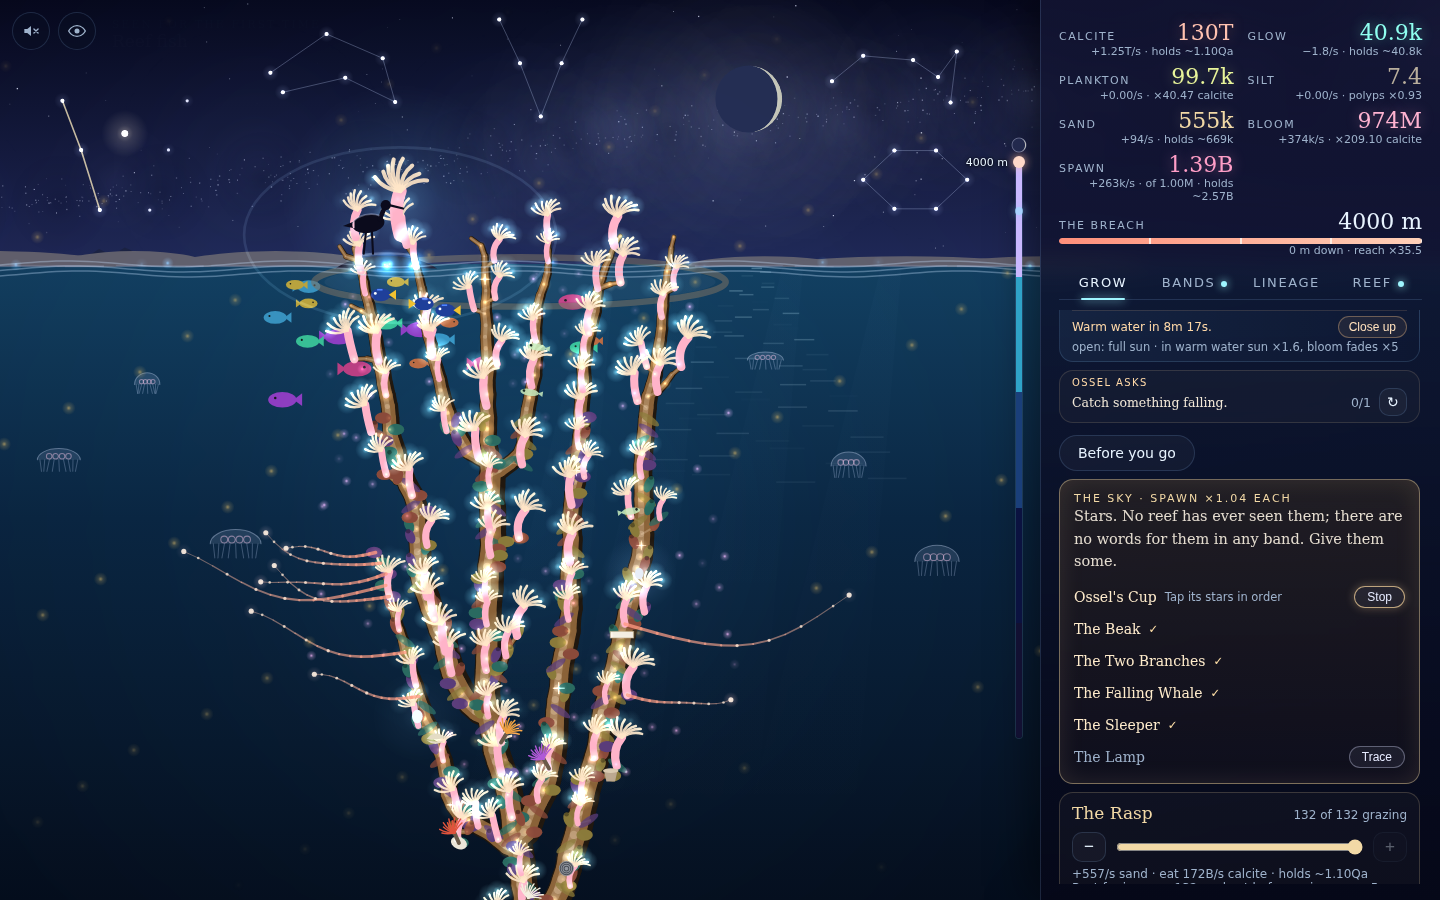
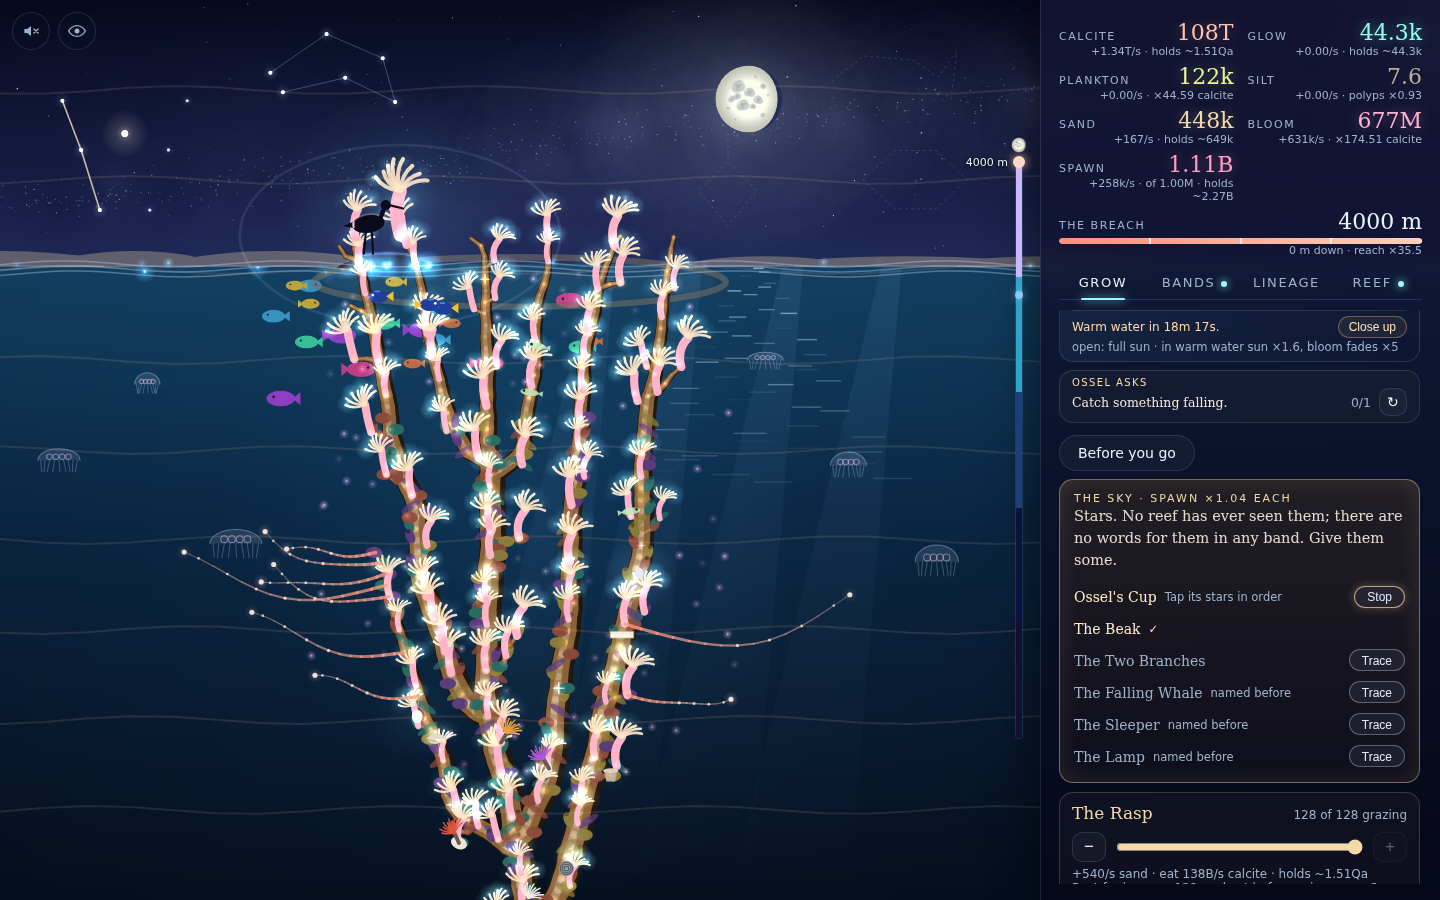
The line remembers the stars it has named

diff --git a/src/game/render/breach.ts b/src/game/render/breach.ts
@@ -167,12 +167,25 @@ export function createBreachScene(seed: number): Scene {
    */
   function drawFigures(ctx: CanvasRenderingContext2D, t: number, v: ReefView, dawn: number): void {
     const tr = v.sky.tracing;
-    if (!v.sky.named.length && !tr) return;
+    if (!v.sky.named.length && !tr && !v.sky.known.length) return;
     ctx.save();
     ctx.lineCap = 'round';
     for (const f of FIGURES) {
       const isNamed = v.sky.named.includes(f.id);
       const tracing = tr?.id === f.id;
+      // Named by an earlier reef of the line: a faint dotted outline until this reef names it too.
+      if (!isNamed && !tracing && v.sky.known.includes(f.id)) {
+        const pts = f.stars.map((_, i) => starAt(f, i));
+        ctx.setLineDash([2 * dpr, 4 * dpr]);
+        ctx.strokeStyle = `rgba(200,215,255,${0.16 * (1 - 0.7 * dawn)})`;
+        ctx.lineWidth = dpr;
+        ctx.beginPath();
+        pts.forEach(([x, y], i) => (i === 0 ? ctx.moveTo(x, y) : ctx.lineTo(x, y)));
+        if (f.close !== undefined) ctx.lineTo(pts[f.close]![0], pts[f.close]![1]);
+        ctx.stroke();
+        ctx.setLineDash([]);
+        continue;
+      }
       if (!isNamed && !tracing) continue;
       const n = isNamed ? f.stars.length : tr!.n;
       const pts = f.stars.map((_, i) => starAt(f, i));

diff --git a/src/game/render/scene.ts b/src/game/render/scene.ts
@@ -34,7 +34,7 @@ export type ReefView = {
   /** The rising passing the reef (0..1, eased in and out; Midnight Water and Twilight Shelf). */
   rising: number;
   /** The night sky over the Breach: figures named, and the one being traced (stars joined so far). */
-  sky: { named: readonly FigureId[]; tracing: { id: FigureId; n: number } | null };
+  sky: { named: readonly FigureId[]; tracing: { id: FigureId; n: number } | null; known: readonly FigureId[] };
   /** Warm water in the Sunlit Crown: how warm (0..1), how bleached the reef is (0..1), polyps closed. */
   heat: { warm: number; bleach: number; closed: boolean };
   /** A shell on the Sunlit sand (place 0..1 and kind), if one lies there now. */

diff --git a/src/game/ui/choices.ts b/src/game/ui/choices.ts
@@ -193,7 +193,7 @@ export function createChoices(grow: HTMLElement, hooks: PanelHooks, setShown: (e
           r.row.classList.toggle('named', named);
           r.row.classList.toggle('now', now === r.f.id);
           r.name.textContent = named || open ? r.f.name : SKY.locked;
-          r.note.textContent = named ? '✓' : open ? (now === r.f.id ? SKY.tracing : '') : r.f.hint;
+          r.note.textContent = named ? '✓' : open ? (now === r.f.id ? SKY.tracing : s.meta.seen.includes(`sky:${r.f.id}`) ? SKY.before : '') : r.f.hint;
           r.b.hidden = !open;
           r.b.textContent = now === r.f.id ? SKY.stop : SKY.trace;
         }

diff --git a/src/client/main.ts b/src/client/main.ts
@@ -777,7 +777,8 @@ function view(): ReefView {
     heat: heatView(),
     grains: state.grains.map((g) => GRAINS.find((x) => x.id === g)!.rgb),
     rising: risingView(),
-    sky: { named: FIGURES.filter((f) => state.sky[f.id]).map((f) => f.id), tracing },
+    sky: { named: FIGURES.filter((f) => state.sky[f.id]).map((f) => f.id), tracing,
+      known: FIGURES.filter((f) => !state.sky[f.id] && state.meta.seen.includes(`sky:${f.id}`)).map((f) => f.id) },
     othersSpawn: actAt(state.height) === 4 && moonFull(state.t),
     planktonLevel: Math.min(1, (feeding(state.plankton) - 1) / 2),
     bands: state.bands,

diff --git a/src/game/sim/economy.ts b/src/game/sim/economy.ts
@@ -1188,6 +1188,7 @@ export function figureOpen(s: GameState, id: FigureId): boolean {
 export function nameFigure(s: GameState, id: FigureId): boolean {
   if (!figureOpen(s, id)) return false;
   s.sky[id] = true;
+  if (!s.meta.seen.includes(`sky:${id}`)) s.meta.seen.push(`sky:${id}`);
   return true;
 }
 

diff --git a/src/game/content/sky.ts b/src/game/content/sky.ts
@@ -74,6 +74,7 @@ export const SKY = {
   tracing: 'Tap its stars in order',
   stop: 'Stop',
   locked: 'a patch of stars',
+  before: 'named before',
   /** Spawn × this for every figure named. */
   spawnEach: 1.04,
   effect: 'spawn ×1.04 each',

diff --git a/docs/PROGRESS.md b/docs/PROGRESS.md
@@ -505,3 +505,4 @@ date, what landed, what is half-done, what's next.
 - Trip encounters (expeditions.ts ENCOUNTERS, ForkId; economy currentEncounter/takeFork; homecoming reads the way): passage, squid, lights, sponges. The fork card fills from the encounter.
 - Setting 'notify' (off by default; asks permission when turned on, turns itself off if refused): main.ts notifyWaiting checks once a second and notifies only while the tab is hidden, each thing once as it begins.
 - Four more riddles (rule, ripple, end, children): ten in all, each about a band already read.
+- The line remembers its stars (meta.seen 'sky:<id>'): later Breaches draw those figures as faint dotted outlines and the sky card says 'named before'.
